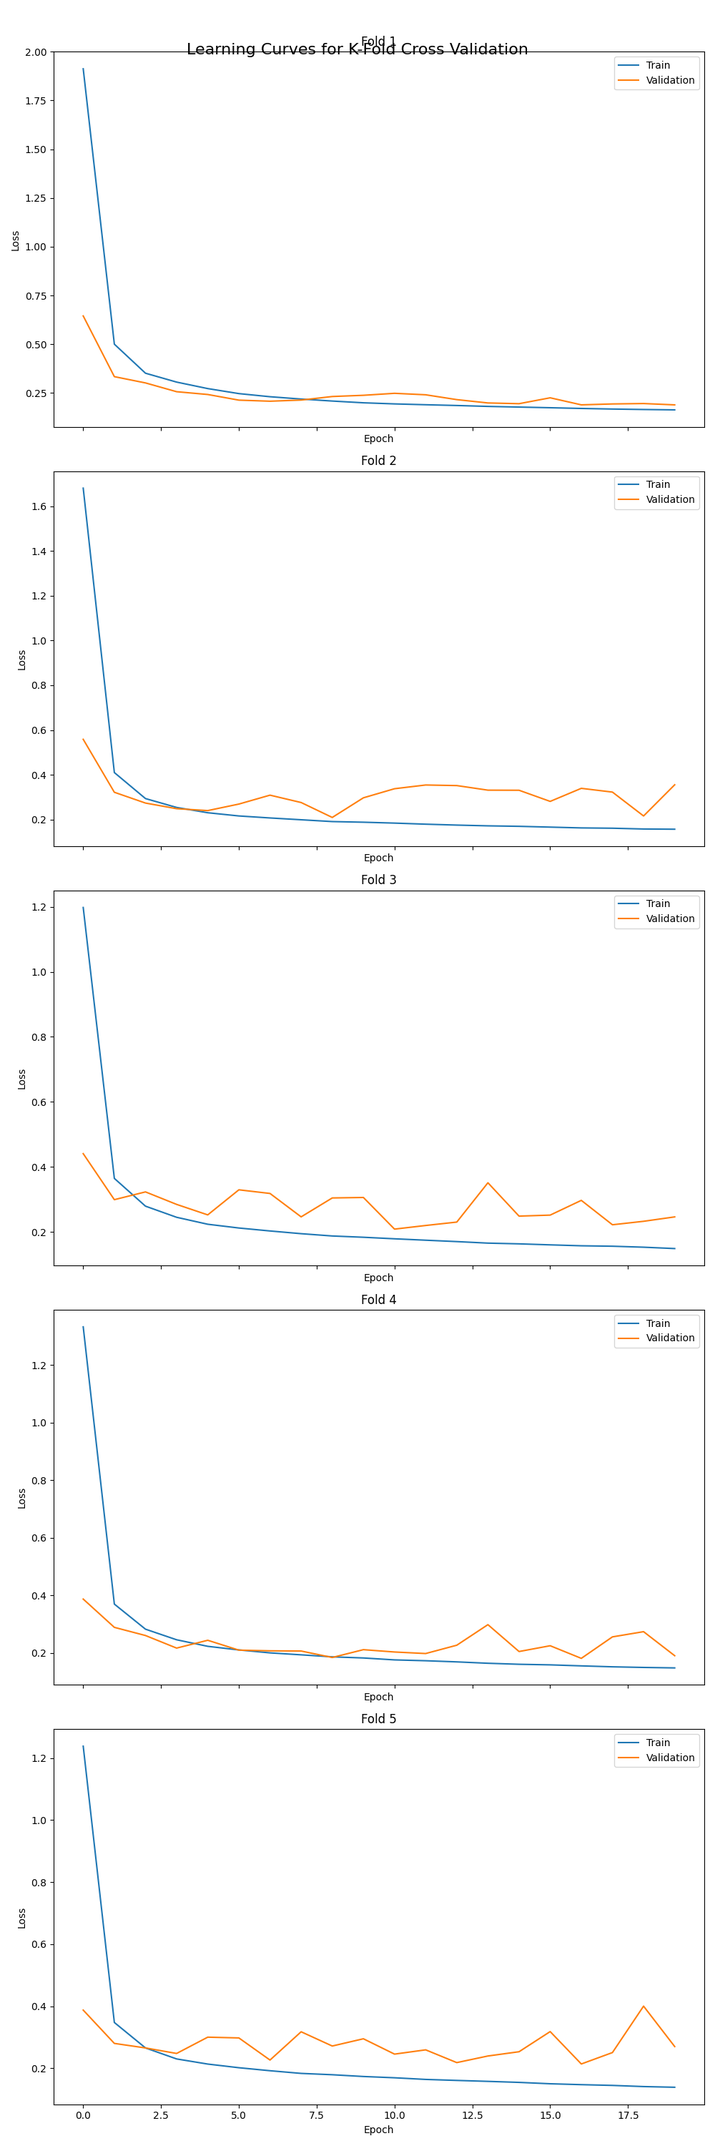
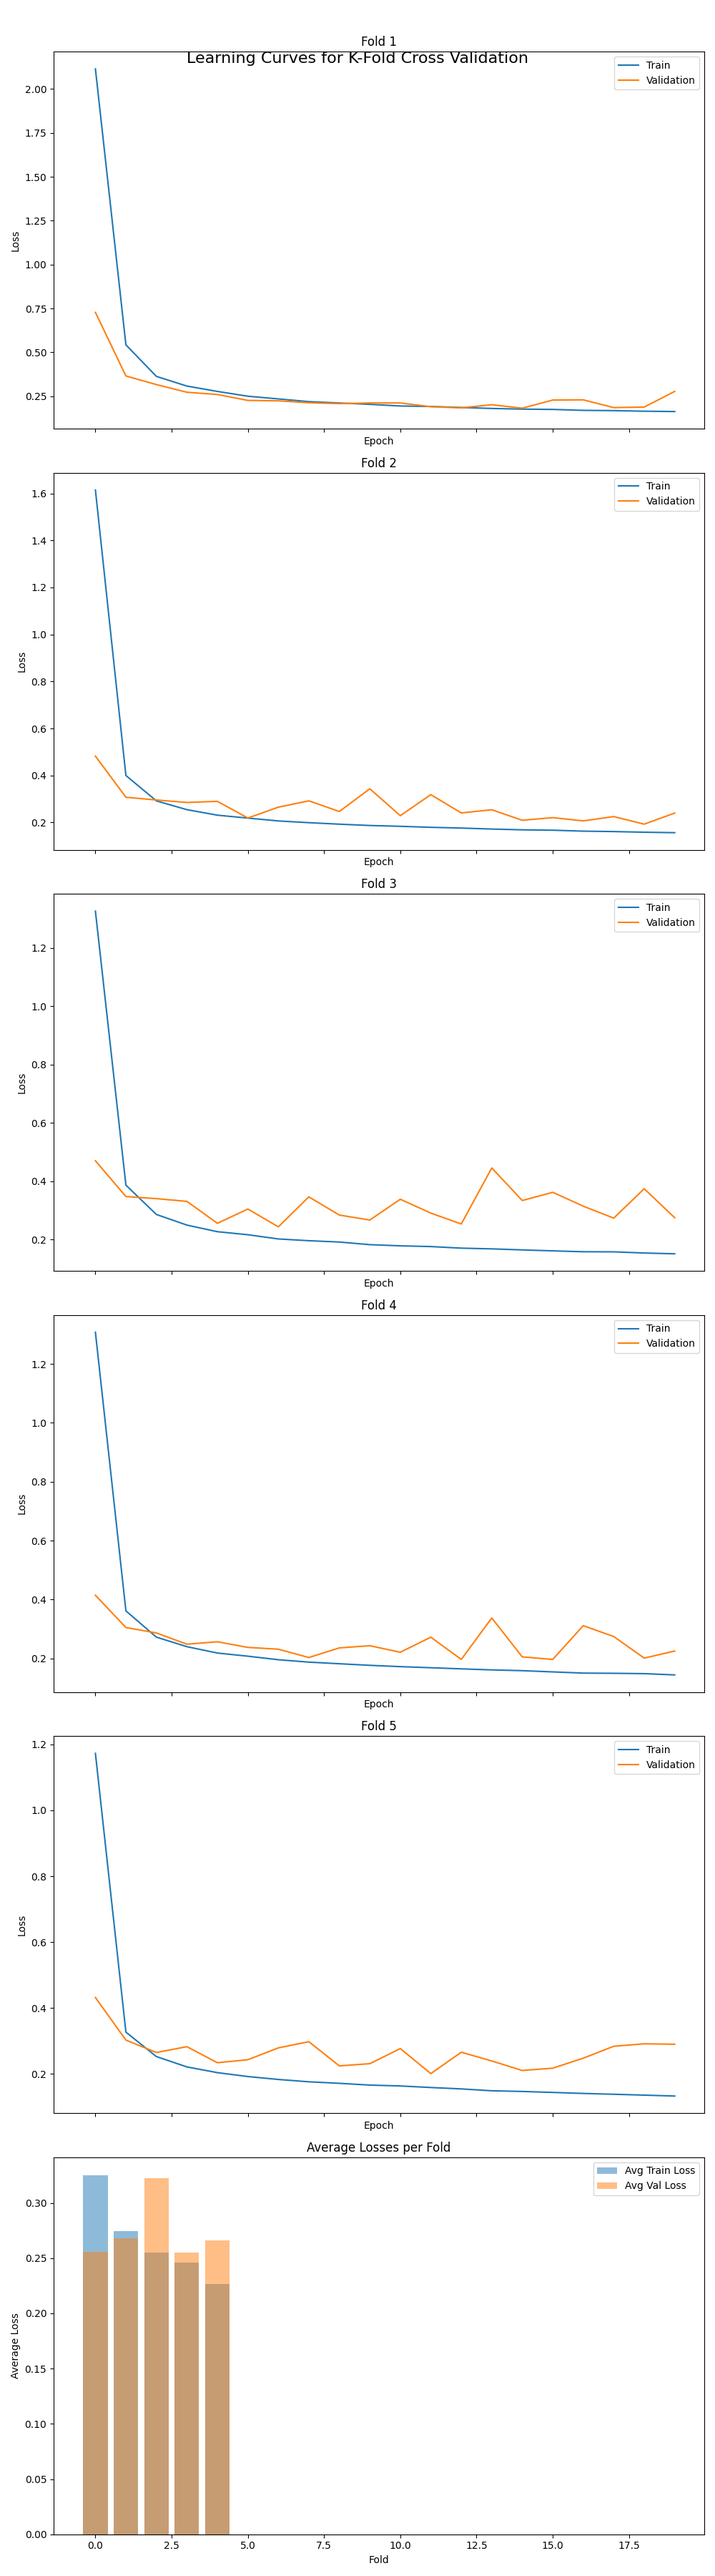
table + more graphs

diff --git a/trainer.py b/trainer.py
@@ -9,7 +9,9 @@ import utils
 
 from tqdm import tqdm
 import numpy as np
+import csv
 
+from tabulate import tabulate
 import torch
 import torch.optim as optim
 from torch.optim.lr_scheduler import LambdaLR
@@ -55,9 +57,10 @@ class CPUSampler(RandomSampler):
     
 def plot_learning_curves(fold_losses, avg_train_losses, avg_val_losses):
     num_folds = len(fold_losses)
-    fig, axes = plt.subplots(num_folds + 1, 1, figsize=(10, 6*(num_folds + 1)), sharex=True)
+    fig, axes = plt.subplots(num_folds + 3, 1, figsize=(10, 6*(num_folds + 3)), sharex=True)
     fig.suptitle('Learning Curves for K-Fold Cross Validation', fontsize=16)
 
+    # Individual fold plots
     for i, losses in enumerate(fold_losses):
         ax = axes[i]
         ax.plot(losses['train'], label='Train')
@@ -67,14 +70,36 @@ def plot_learning_curves(fold_losses, avg_train_losses, avg_val_losses):
         ax.set_ylabel('Loss')
         ax.legend()
 
-    # Plot average losses
-    ax = axes[-1]
-    ax.bar(range(num_folds), avg_train_losses, alpha=0.5, label='Avg Train Loss')
-    ax.bar(range(num_folds), avg_val_losses, alpha=0.5, label='Avg Val Loss')
-    ax.set_title('Average Losses per Fold')
-    ax.set_xlabel('Fold')
-    ax.set_ylabel('Average Loss')
-    ax.legend()
+    # Overlaid learning curves
+    ax_overlay_train = axes[-3]
+    ax_overlay_val = axes[-2]
+    
+    for i, losses in enumerate(fold_losses):
+        ax_overlay_train.plot(losses['train'], label=f'Fold {i+1}')
+        ax_overlay_val.plot(losses['val'], label=f'Fold {i+1}')
+    
+    ax_overlay_train.set_title('Overlaid Training Curves')
+    ax_overlay_train.set_xlabel('Epoch')
+    ax_overlay_train.set_ylabel('Loss')
+    ax_overlay_train.legend()
+
+    ax_overlay_val.set_title('Overlaid Validation Curves')
+    ax_overlay_val.set_xlabel('Epoch')
+    ax_overlay_val.set_ylabel('Loss')
+    ax_overlay_val.legend()
+
+    # Average losses
+    ax_avg = axes[-1]
+    x = range(num_folds)
+    width = 0.35
+    ax_avg.bar([i - width/2 for i in x], avg_train_losses, width, label='Avg Train Loss')
+    ax_avg.bar([i + width/2 for i in x], avg_val_losses, width, label='Avg Val Loss')
+    ax_avg.set_title('Average Losses per Fold')
+    ax_avg.set_xlabel('Fold')
+    ax_avg.set_ylabel('Average Loss')
+    ax_avg.set_xticks(x)
+    ax_avg.set_xticklabels([f'Fold {i+1}' for i in x])
+    ax_avg.legend()
 
     plt.tight_layout()
     
@@ -93,9 +118,42 @@ def plot_learning_curves(fold_losses, avg_train_losses, avg_val_losses):
         plt.savefig(f'learning_curves_fold_{i+1}.png')
         plt.close()
 
+    # Save the overlaid plots
+    plt.figure(figsize=(10, 6))
+    for i, losses in enumerate(fold_losses):
+        plt.plot(losses['train'], label=f'Fold {i+1} Train')
+        plt.plot(losses['val'], label=f'Fold {i+1} Val')
+    plt.title('Overlaid Learning Curves for All Folds')
+    plt.xlabel('Epoch')
+    plt.ylabel('Loss')
+    plt.legend()
+    plt.savefig('learning_curves_overlaid.png')
+    plt.close()
+
     # Save the combined plot
     fig.savefig('learning_curves_all_folds.png')
     plt.close(fig)
+
+def create_loss_table(train_losses, val_losses, overall_train_loss, overall_val_loss):
+        headers = ["Fold", "Avg Train Loss", "Avg Validation Loss"]
+        table_data = []
+    
+        for i, (train_loss, val_loss) in enumerate(zip(train_losses, val_losses), 1):
+            table_data.append([f"Fold {i}", f"{train_loss:.5f}", f"{val_loss:.5f}"])
+    
+        table_data.append(["Overall", f"{overall_train_loss:.5f}", f"{overall_val_loss:.5f}"])
+    
+    # Print the table
+        print("\nCross-Validation Results:")
+        print(tabulate(table_data, headers=headers, tablefmt="grid"))
+    
+    # Save the table as a CSV file
+        with open('cross_validation_results.csv', 'w', newline='') as csvfile:
+            writer = csv.writer(csvfile)
+            writer.writerow(headers)
+            writer.writerows(table_data)
+    
+        print("\nCross-validation results have been saved to 'cross_validation_results.csv'")
 
 class Trainer:
     def __init__(self, model, train_dataset, test_dataset, config, best=None, device='gpu', n_splits=5):
@@ -187,6 +245,9 @@ class Trainer:
         print(f"\nOverall average train loss: {overall_avg_train_loss:.5f}")
         print(f"Overall average validation loss: {overall_avg_val_loss:.5f}")
 
+        # Create and save the table of losses
+        create_loss_table(all_fold_avg_train_losses, all_fold_avg_val_losses, overall_avg_train_loss, overall_avg_val_loss)
+
         plot_learning_curves(fold_losses, all_fold_avg_train_losses, all_fold_avg_val_losses)
 
         # Load the best model from cross-validation
@@ -196,6 +257,7 @@ class Trainer:
             print(f"Best fold validation loss: {best_fold_loss}")
         else:
             print("Warning: No best model found. Check if all folds failed.")
+    
 
     def run_fold(self, train_loader, val_loader, optimizer):
         best_val_loss = float('inf')
